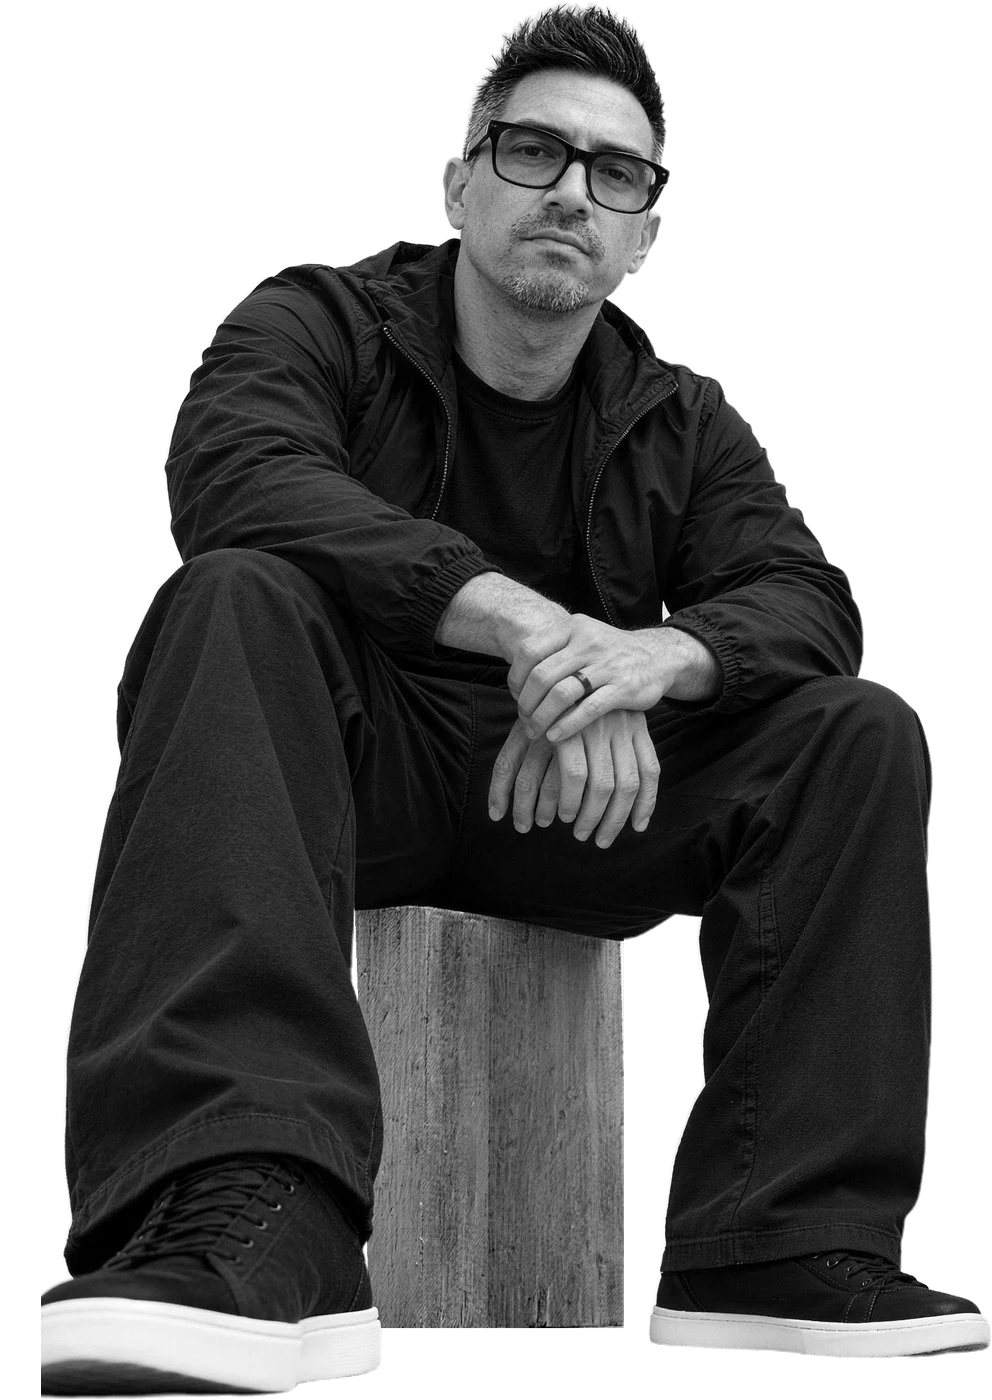
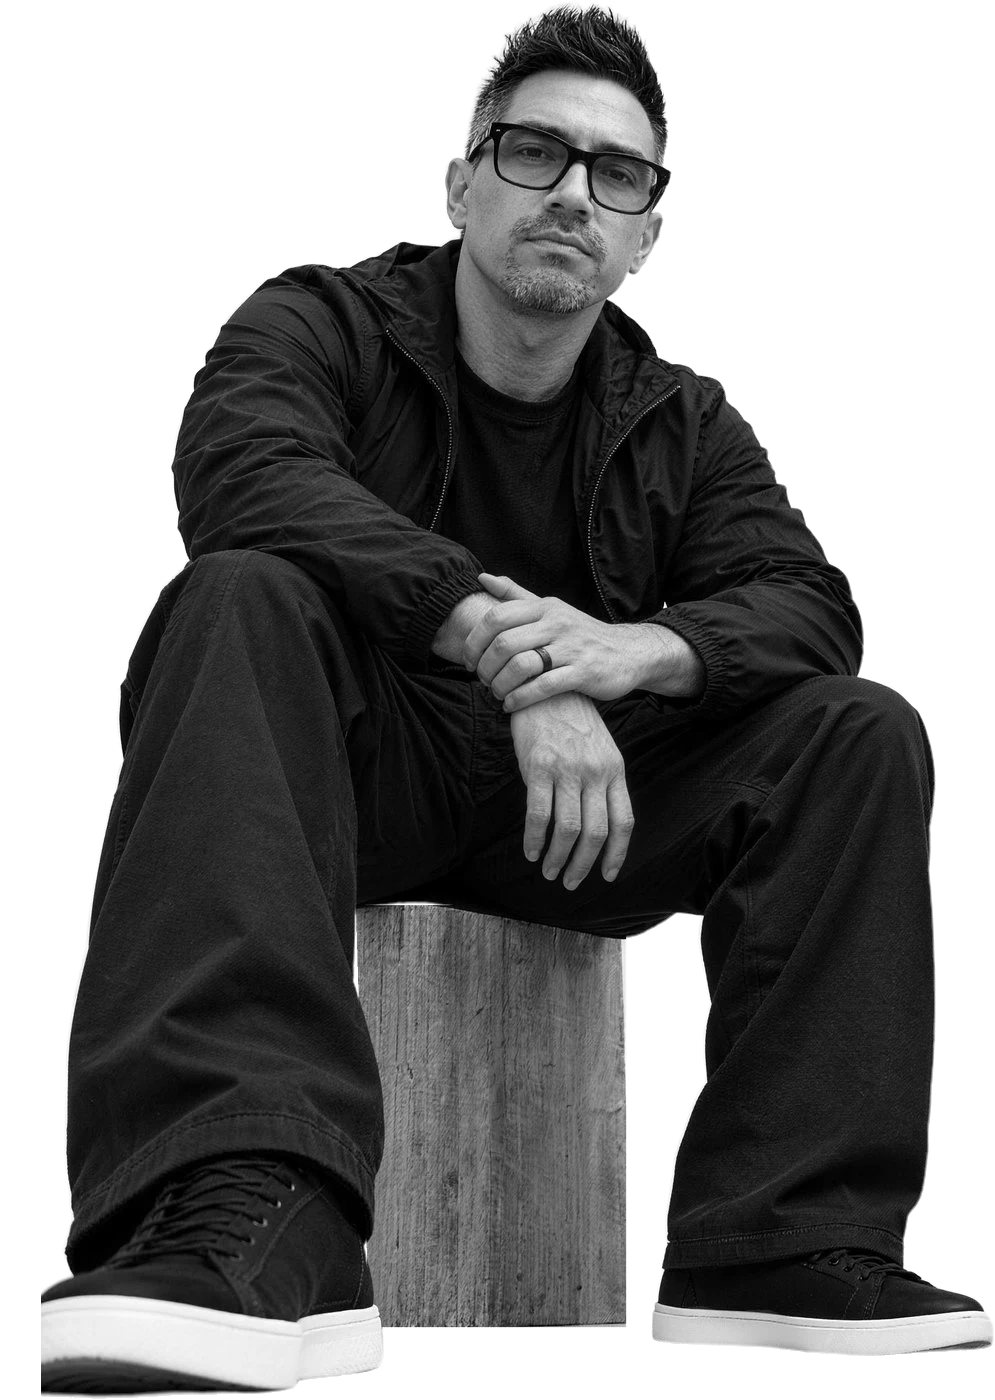
Hero portrait: fix extra hand from the previous edit
The last edit left a third set of fingers under the clasped hands.
Re-edited to exactly two hands (left on top, black matte band on the
left ring finger), then re-cut, upscaled and rebuilt the motion trail.

Claude-Session: https://claude.ai/code/session_01W5NmLrmCfpinZRZs12n3aL

diff --git a/index.html b/index.html
@@ -92,7 +92,7 @@
   .ghost { position: absolute; z-index: 3; bottom: 0; left: 50%; height: 72%; width: auto; max-width: none; transform: translateX(-74%); opacity: .45; pointer-events: none; }
 
   /* Figure + Meta Ray-Ban capture LED */
-  .figure { position: absolute; z-index: 4; left: 50%; bottom: 0; height: 88%; aspect-ratio: 992 / 1400; transform: translateX(-50%); pointer-events: none; }
+  .figure { position: absolute; z-index: 4; left: 50%; bottom: 0; height: 88%; aspect-ratio: 995 / 1400; transform: translateX(-50%); pointer-events: none; }
   .figure img { width: 100%; height: 100%; max-width: none; filter: drop-shadow(0 22px 26px rgba(0,0,0,.18)); }
   .led { position: absolute; left: 49.2%; top: 8.8%; width: 44px; height: 44px; margin: -22px 0 0 -22px; border: 0; padding: 0; background: none; cursor: pointer; pointer-events: auto; border-radius: 50%; }
   .led::before { content: ""; position: absolute; left: 50%; top: 50%; width: 6px; height: 6px; margin: -3px 0 0 -3px; border-radius: 50%; background: #fff; box-shadow: 0 0 6px 2px #fff, 0 0 16px 6px rgba(255,255,255,.75); animation: blink 1.6s steps(1, end) infinite; }
